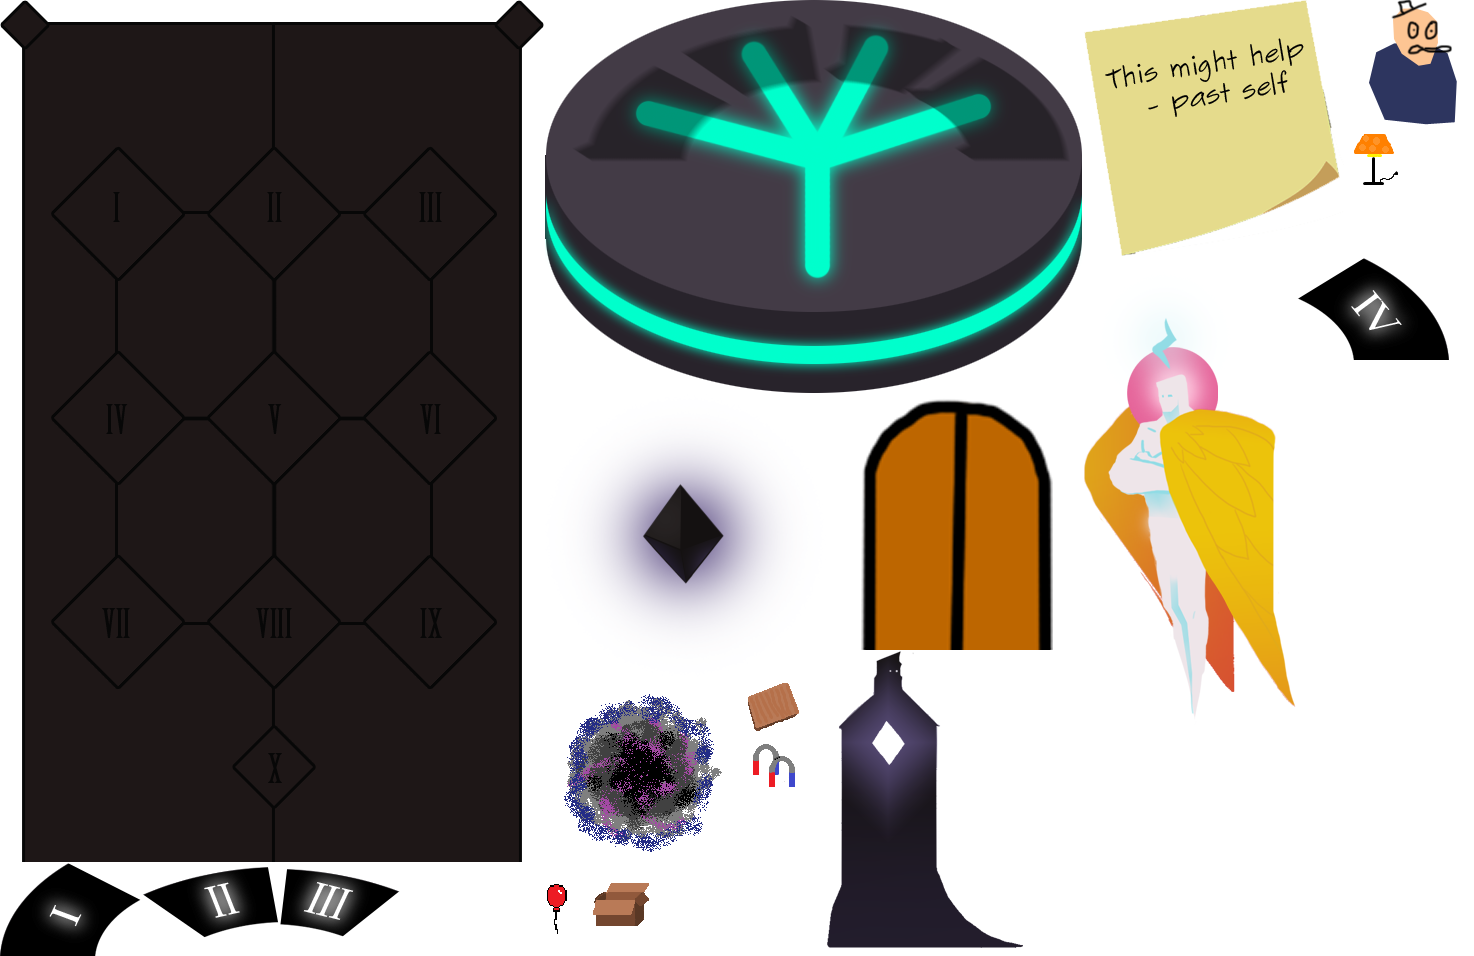
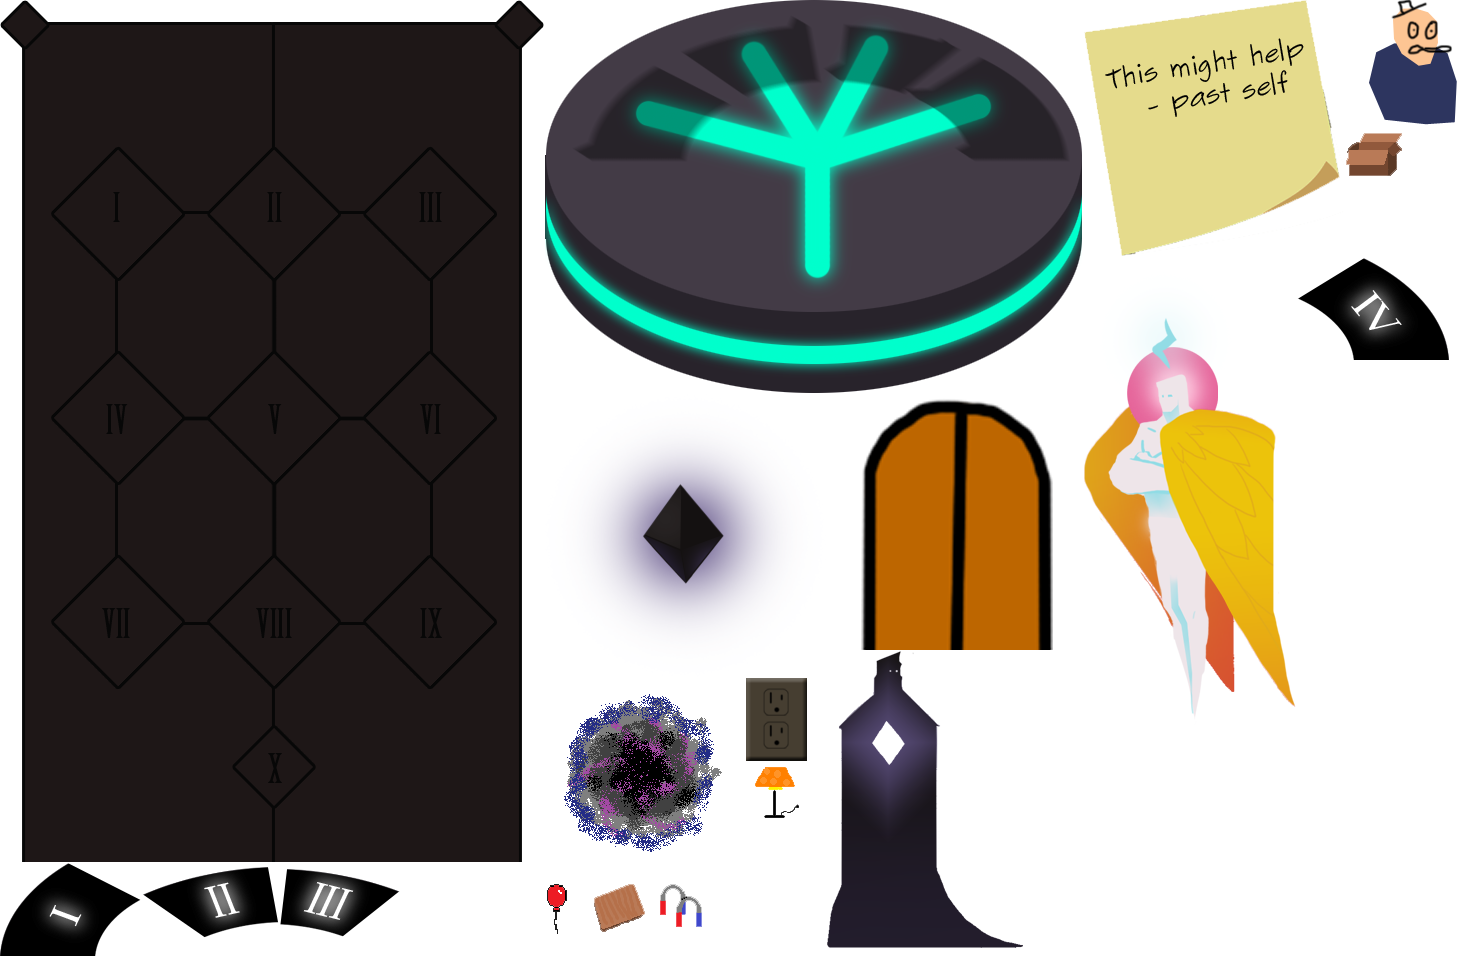
wormhole working

Changed region(s): [[0.4993, 0.6977, 0.5617, 0.8494], [0.4057, 0.91, 0.4993, 0.9707], [0.905, 0.1213, 0.9674, 0.182]]

diff --git a/index.bundle.js b/index.bundle.js
@@ -45195,6 +45195,7 @@ ClickTarget.prototype.addFalse = function(data)
 }
 
 
+
 //Possible action keys:
 // - triggerConversation
 // - triggerScene
@@ -45354,6 +45355,10 @@ ClickTarget.prototype.triggerAction = function(action)
 	{
 		this.permanentlyDisable();
 	}
+	else if (action.action == "interact")
+	{
+		this.interact(action.target, action.setGlobals);
+	}
 }
 
 ClickTarget.prototype.actionMeetsConditionals = function(action)
@@ -45424,6 +45429,16 @@ ClickTarget.prototype.meetsExistConditions = function()
     return true;
 }
 
+ClickTarget.prototype.interact = function(item, globals)
+{
+	var selected = Inventory.itemHeld();
+	if (selected){
+		Inventory.removeItem(item);
+	}
+	for (var i = 0; i < globals.length; i++){
+		GlobalVariables.setVariable(globals[i]);
+	}
+}
 },{"./conversation.js":13,"./globalvariables.js":14,"./infobox.js":15,"three":2}],13:[function(require,module,exports){
 
 Input = require("../sdk/input");
@@ -46159,11 +46174,7 @@ Inventory.items = {
         sprite: "player_atlas2"
     },
     cardboard_box: {
-<<<<<<< HEAD
         sprite: "cardboardbox"
-=======
-        sprite: "cardboard_box"
->>>>>>> d0a015e3df2121b26e6ad3adf0417b3e7cc64c27
     },
     cardboard: {
         sprite: "cardboard"
@@ -46290,7 +46301,7 @@ Inventory.itemHeld = function()
 {
     if (this.itemSelected > -1)
     {
-        return this.itemList[itemSelected];
+        return this.itemList[this.itemSelected];
     }
     return undefined;
 }
@@ -46369,6 +46380,11 @@ CreationOfTheWorldScene.prototype.added = function()
 	this.playerSprite = this.createClickableSprite("heaven_player", -314, GameEngine.screenHeight/2-390);
 	this.wormhole = this.createClickableSprite("wormhole", 0, 0);
 	this.wormhole.addTrue("WORMHOLE_ACTIVATED");
+	this.wormhole.addAction ({
+		action: "interact",
+		target: Inventory.items["cardboard_box"],
+		setGlobals: ["BOX_IN_WORMHOLE"]
+	});
 
 	Scene.prototype.added.call(this);
 }
@@ -47210,7 +47226,6 @@ SceneManager.update = function()
 			if (Input.Mouse.buttonPressed(Input.Mouse.LEFT))
 			{
 				clickTarget.trigger();
-				this.lastThingClicked = clickTarget;
 			}
 		}
 	}
@@ -47252,7 +47267,7 @@ SceneManager.update = function()
 	if (Input.Mouse.buttonPressed(Input.Mouse.LEFT))
 	{
 		//TODO: hide if clicking a different target
-		if (clickTarget != this.lastThingClicked) 
+		if (!(clickTarget)) 
 		{
 			InfoBox.hide();
 		}
@@ -47358,24 +47373,14 @@ module.exports =
 "general":
 {
 	url: "media/general_atlas.png",
-<<<<<<< HEAD
 	width: 1474,
-=======
-	width: 1468,
->>>>>>> d0a015e3df2121b26e6ad3adf0417b3e7cc64c27
 	height: 956,
 	filter: THREE.LinearFilter,
 	sprites:
 	{
-<<<<<<< HEAD
 	"balloon":[531,879,60,60],
-	"cardboard":[746,678,60,60],
-	"cardboardbox":[592,879,60,60],
-=======
-	"ballon":[698,678,60,60],
-	"cardboard":[1407,0,60,60],
-	"cardboardbox":[1345,84,60,60],
->>>>>>> d0a015e3df2121b26e6ad3adf0417b3e7cc64c27
+	"cardboard":[592,879,60,60],
+	"cardboardbox":[1345,129,60,60],
 	"crystal":[545,394,281,283],
 	"door":[827,394,256,256],
 	"grad_circle":[401,863,64,64],
@@ -47384,14 +47389,9 @@ module.exports =
 	"heaven_player":[827,651,196,297],
 	"johnson15_sprite":[1345,0,128,128],
 	"keydoor":[0,0,544,862],
-<<<<<<< HEAD
-	"lamp":[1345,129,60,60],
-	"magnets":[746,739,60,60],
-=======
-	"lamp":[698,739,60,60],
-	"magnets":[759,678,60,60],
-	"outlet":[1345,0,61,83],
->>>>>>> d0a015e3df2121b26e6ad3adf0417b3e7cc64c27
+	"lamp":[746,762,60,60],
+	"magnets":[653,879,60,60],
+	"outlet":[746,678,61,83],
 	"timedevice":[545,0,537,393],
 	"timedevice_button1":[0,863,141,93],
 	"timedevice_button2":[142,863,137,75],

diff --git a/src/sdk/atlases/index.js b/src/sdk/atlases/index.js
@@ -9,24 +9,14 @@ module.exports =
 "general":
 {
 	url: "media/general_atlas.png",
-<<<<<<< HEAD
 	width: 1474,
-=======
-	width: 1468,
->>>>>>> d0a015e3df2121b26e6ad3adf0417b3e7cc64c27
 	height: 956,
 	filter: THREE.LinearFilter,
 	sprites:
 	{
-<<<<<<< HEAD
 	"balloon":[531,879,60,60],
-	"cardboard":[746,678,60,60],
-	"cardboardbox":[592,879,60,60],
-=======
-	"ballon":[698,678,60,60],
-	"cardboard":[1407,0,60,60],
-	"cardboardbox":[1345,84,60,60],
->>>>>>> d0a015e3df2121b26e6ad3adf0417b3e7cc64c27
+	"cardboard":[592,879,60,60],
+	"cardboardbox":[1345,129,60,60],
 	"crystal":[545,394,281,283],
 	"door":[827,394,256,256],
 	"grad_circle":[401,863,64,64],
@@ -35,14 +25,9 @@ module.exports =
 	"heaven_player":[827,651,196,297],
 	"johnson15_sprite":[1345,0,128,128],
 	"keydoor":[0,0,544,862],
-<<<<<<< HEAD
-	"lamp":[1345,129,60,60],
-	"magnets":[746,739,60,60],
-=======
-	"lamp":[698,739,60,60],
-	"magnets":[759,678,60,60],
-	"outlet":[1345,0,61,83],
->>>>>>> d0a015e3df2121b26e6ad3adf0417b3e7cc64c27
+	"lamp":[746,762,60,60],
+	"magnets":[653,879,60,60],
+	"outlet":[746,678,61,83],
 	"timedevice":[545,0,537,393],
 	"timedevice_button1":[0,863,141,93],
 	"timedevice_button2":[142,863,137,75],

diff --git a/src/game/clicktarget.js b/src/game/clicktarget.js
@@ -46,6 +46,7 @@ ClickTarget.prototype.addFalse = function(data)
 }
 
 
+
 //Possible action keys:
 // - triggerConversation
 // - triggerScene
@@ -205,6 +206,10 @@ ClickTarget.prototype.triggerAction = function(action)
 	{
 		this.permanentlyDisable();
 	}
+	else if (action.action == "interact")
+	{
+		this.interact(action.target, action.setGlobals);
+	}
 }
 
 ClickTarget.prototype.actionMeetsConditionals = function(action)
@@ -273,4 +278,15 @@ ClickTarget.prototype.meetsExistConditions = function()
         }
     }
     return true;
+}
+
+ClickTarget.prototype.interact = function(item, globals)
+{
+	var selected = Inventory.itemHeld();
+	if (selected){
+		Inventory.removeItem(item);
+	}
+	for (var i = 0; i < globals.length; i++){
+		GlobalVariables.setVariable(globals[i]);
+	}
 }

diff --git a/src/game/scene_creation_of_the_world.js b/src/game/scene_creation_of_the_world.js
@@ -69,6 +69,11 @@ CreationOfTheWorldScene.prototype.added = function()
 	this.playerSprite = this.createClickableSprite("heaven_player", -314, GameEngine.screenHeight/2-390);
 	this.wormhole = this.createClickableSprite("wormhole", 0, 0);
 	this.wormhole.addTrue("WORMHOLE_ACTIVATED");
+	this.wormhole.addAction ({
+		action: "interact",
+		target: Inventory.items["cardboard_box"],
+		setGlobals: ["BOX_IN_WORMHOLE"]
+	});
 
 	Scene.prototype.added.call(this);
 }

diff --git a/src/game/inventory.js b/src/game/inventory.js
@@ -142,7 +142,7 @@ Inventory.itemHeld = function()
 {
     if (this.itemSelected > -1)
     {
-        return this.itemList[itemSelected];
+        return this.itemList[this.itemSelected];
     }
     return undefined;
 }
